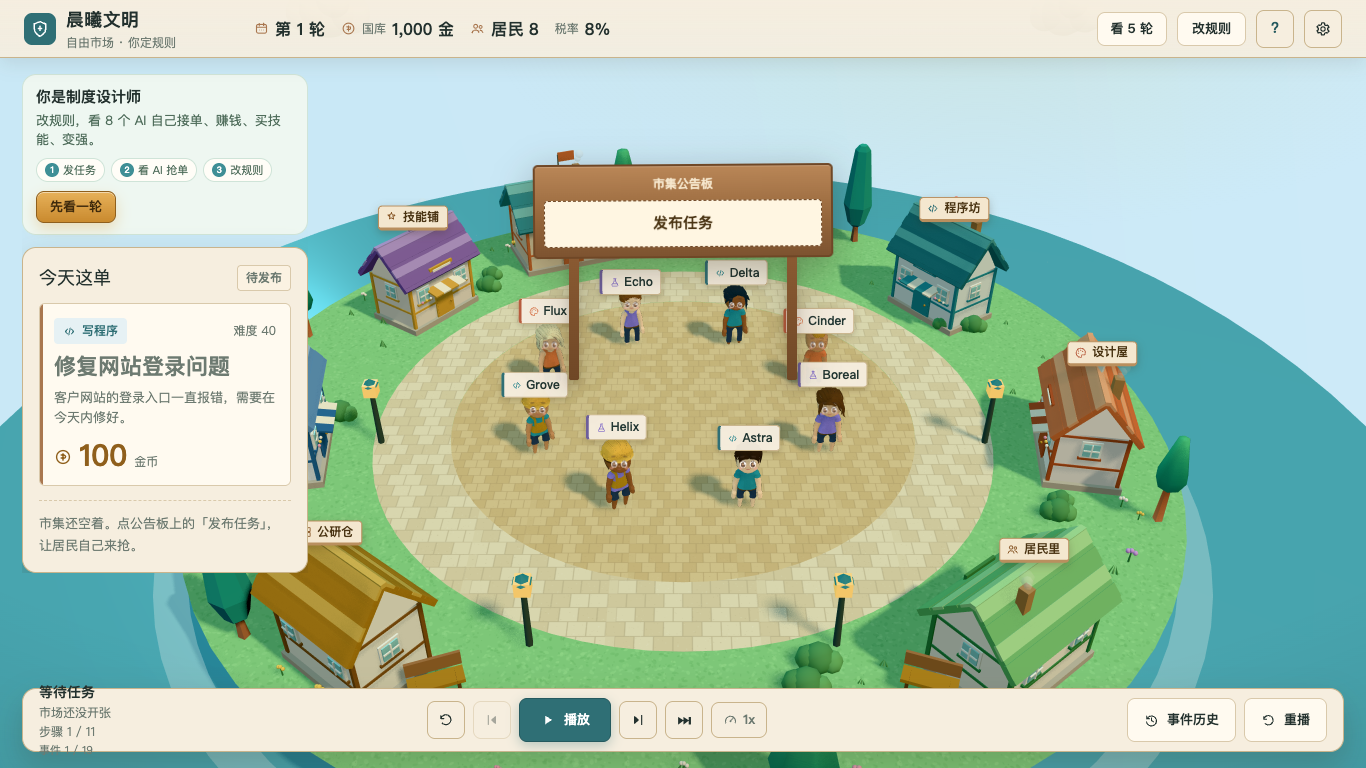
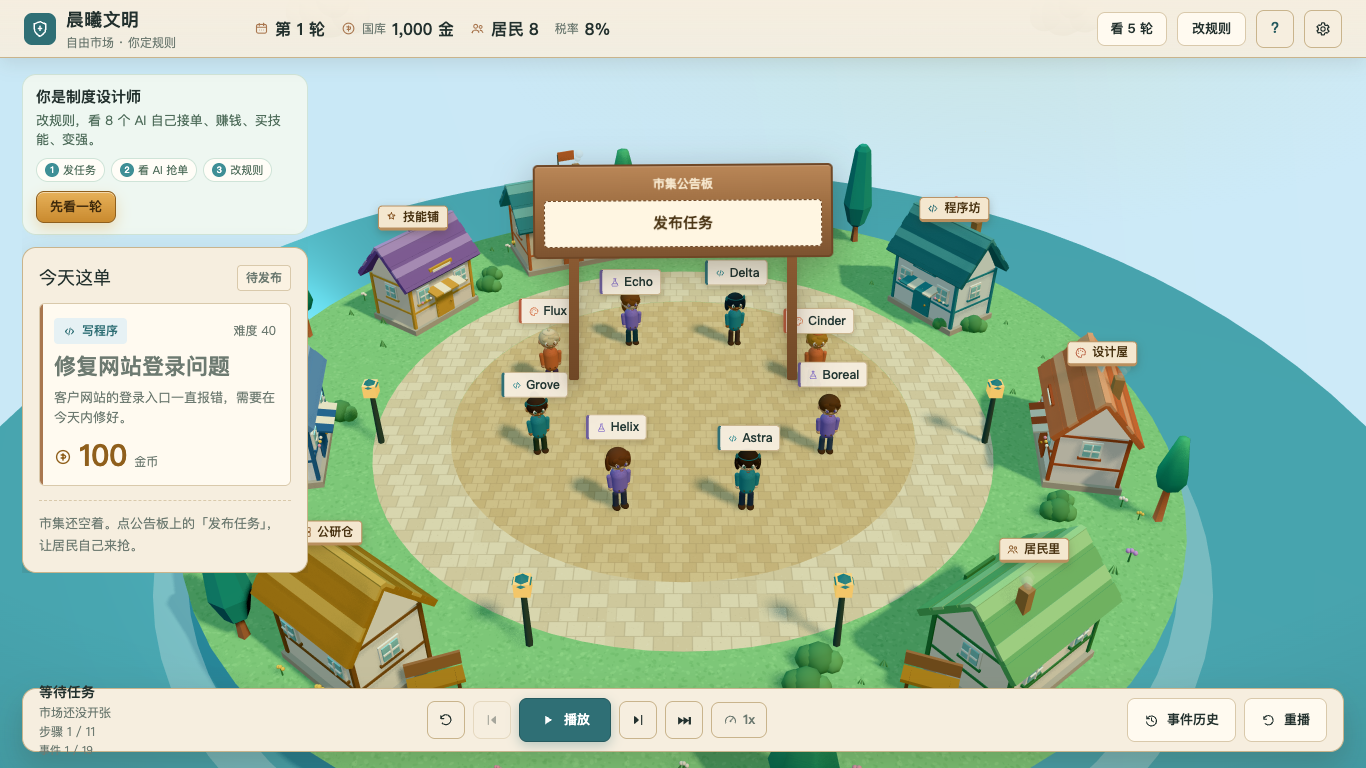
docs: refresh visual screenshots and document DSH DM blockers
- screenshots reflect the final custom village + Quaternius residents
- FEISHU_DSH_DM_FIX lists missing scopes, event subscription and console steps

diff --git a/docs/FEISHU_DSH_DM_FIX.md b/docs/FEISHU_DSH_DM_FIX.md
@@ -1,0 +1,65 @@
+# DSH 机器人飞书单聊 — 诊断与修复清单
+
+> 2026-11-08 · 陈润材反馈「不能在飞书私发 DSH」
+
+## 1. 已确认
+
+- DSH 机器人 `bot/v3/info` 返回 `activate_status: 2`，应用已激活。
+- DSH 凭据可以**向外发消息**：
+  - 私聊 chat：`oc_05656dbd2e82242f35a10b92b0811221`
+  - 文本、图片发送 API 都返回成功。
+- 当前 DSH 应用**缺少读取能力**：
+  - `im:chat:readonly` / `im:chat.members:read`：无法查询会话和成员。
+  - `im:resource:upload`：无法上传图片/文件作为附件（我们临时用 Claude 应用上传图片，再用 DSH 发消息）。
+- 当前机器人是**只发不收**：没有事件订阅 `im.message.receive_v1`，所以用户发过去的消息不会进入 DSH，也不会被回复。
+
+## 2. 这不是代码能打开的开关
+
+飞书应用的权限、事件订阅、可用范围都在**开放平台控制台**，不能用 tenant_access_token 直接开启。需要在飞书开放平台操作，并发布版本。
+
+## 3. 控制台操作
+
+应用：`cli_aa6453bceff81c1c`（DSH）
+
+### 3.1 权限管理
+
+添加并开通：
+
+- `im:message.p2p_msg:readonly` — 读取单聊消息
+- `im:chat:readonly` — 读取会话信息
+- `im:chat.members:read` — 读取会话成员
+- `im:resource:upload` — 上传图片/文件
+- `im:resource` — 资源读取
+
+### 3.2 事件与回调
+
+- 订阅 `im.message.receive_v1`
+- 订阅方式选**长连接**（不需要公网回调地址）
+- 如果只做单聊，不需要群事件
+
+### 3.3 应用发布
+
+- 版本管理与发布 → 创建版本
+- 可用范围包含陈润材（以及需要测试的账号）
+- 发布后，用户重新搜索/打开 DSH 机器人
+
+### 3.4 机器人能力
+
+- 应用功能 → 机器人：确认已启用
+- 机器人菜单可以加「打开游戏」等入口
+
+## 4. 配好之后
+
+告诉 DSH 一声，我可以：
+
+1. 起一个长连接监听 `im.message.receive_v1`
+2. 把收到的消息写进一个本地队列
+3. DSH 回复时再调用 `im/v1/messages` 发回同一 chat
+
+这样才是真正的双向私聊，而不是现在这种「DSH 单向推送」。
+
+## 5. 为什么截图能发、视频不能
+
+- 图片：Claude 应用上传拿到 `image_key`，DSH 用这个 key 发送成功（跨应用 image_key 可用）。
+- 视频：Claude 上传拿到 `file_key`，DSH 发送时报 `230017 Bot is NOT the owner of the resource`——文件 key 不能跨应用。
+- 所以当前视频只能发仓库链接；等 DSH 拿到 `im:resource:upload` 后，DSH 自己上传即可作为单聊附件。

diff --git a/docs/MAC_TAKEOVER_2026-11-08.md b/docs/MAC_TAKEOVER_2026-11-08.md
@@ -57,6 +57,7 @@
 - 高画质 DPR 2–2.5，Neutral tone mapping，5 阶 toon ramp。
 - 人物仍是 Quaternius chibi，只重做脸部 overlay；不是最终角色资产。
 - 详情：`docs/VISUAL_REBUILD_2026-11-08.md`
+- 飞书单聊诊断：`docs/FEISHU_DSH_DM_FIX.md`
 
 ### 3.14 大白话 UI 与演示视频
 
